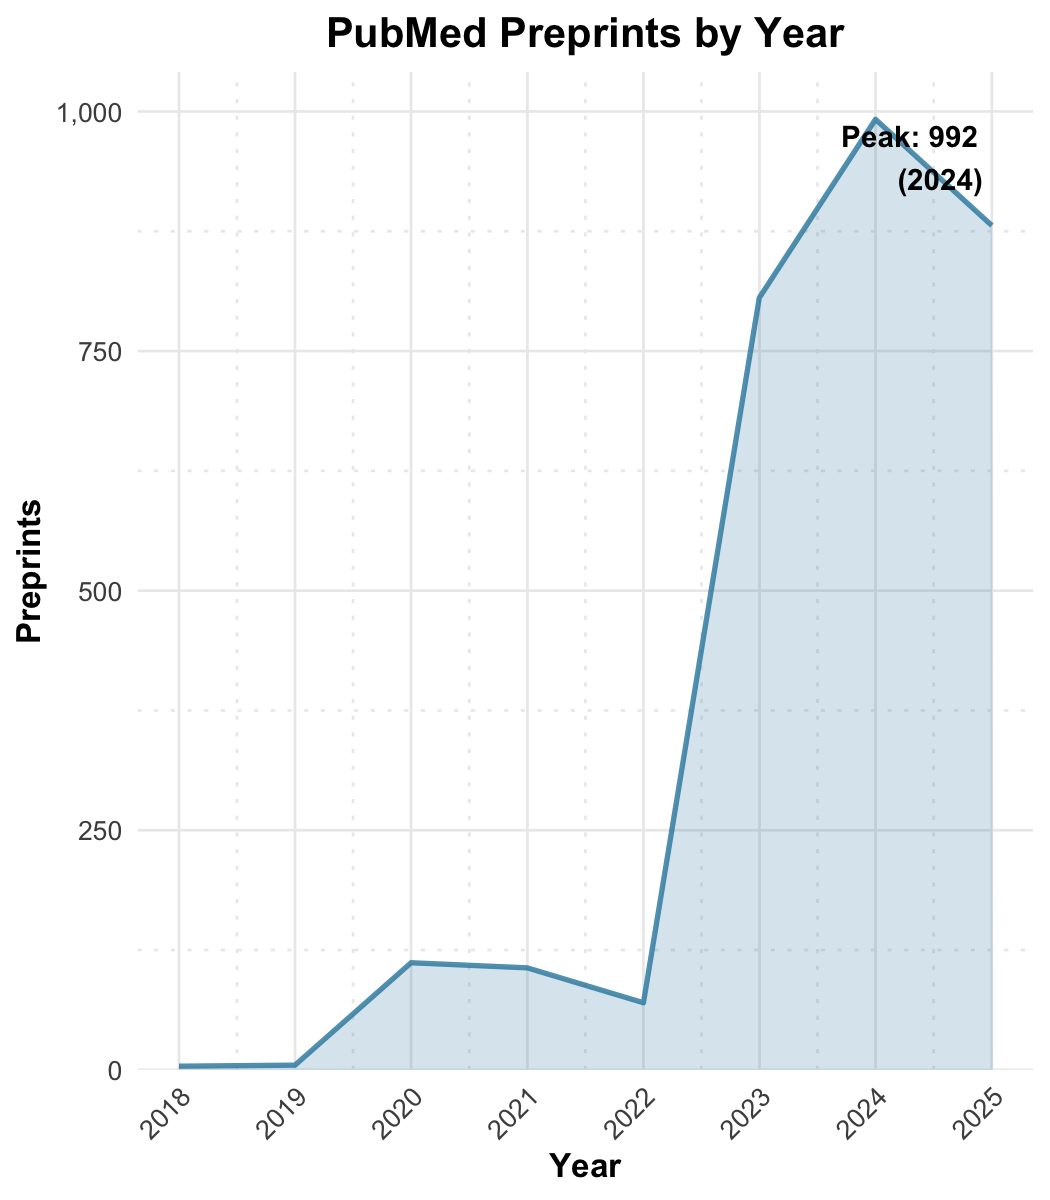
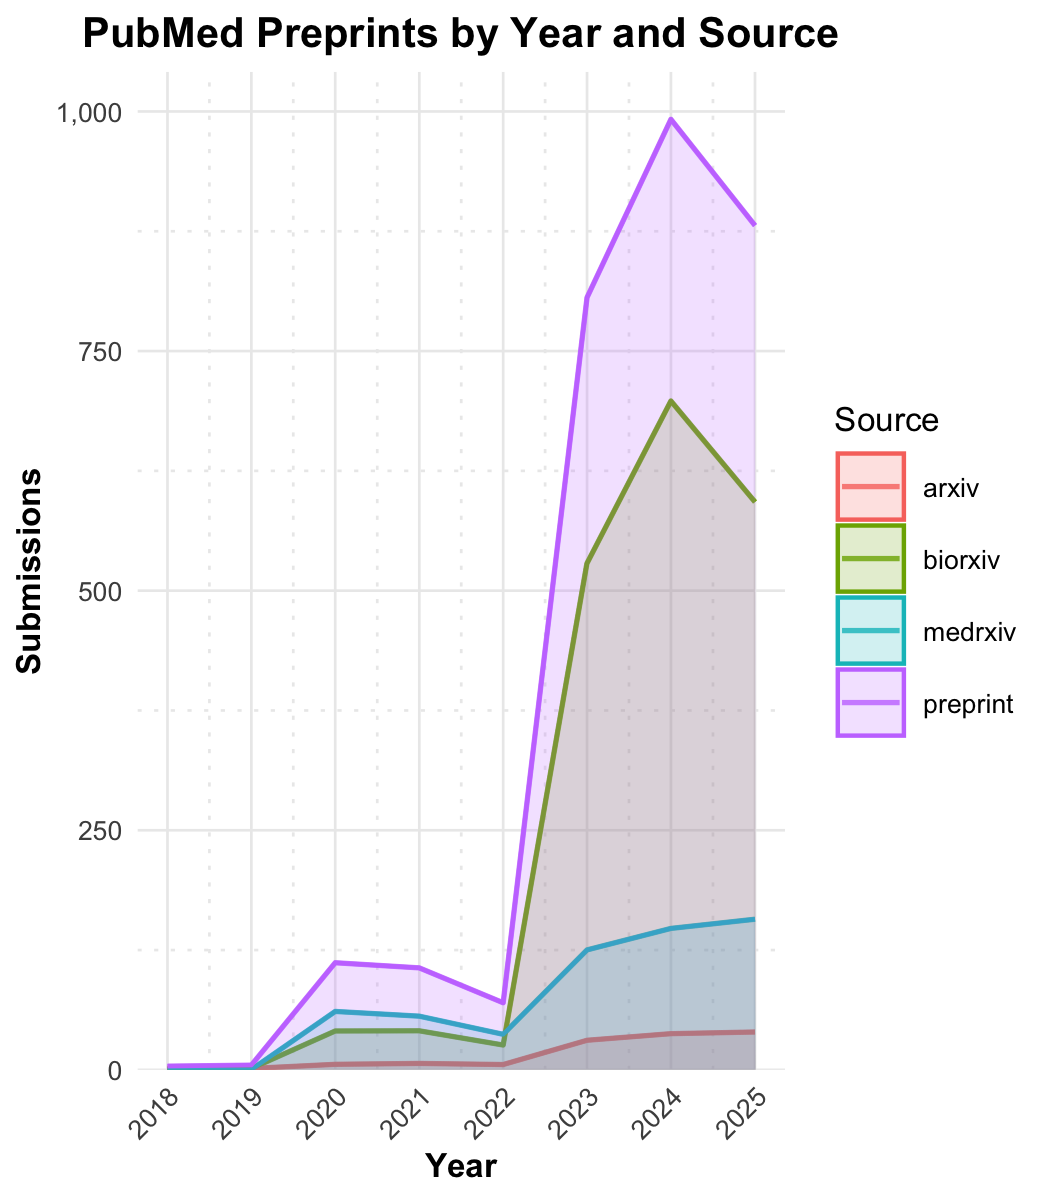
updating preprint to reflect that R scripts are now possible as well

diff --git a/EXAMPLE_MANUSCRIPT/01_MAIN.md b/EXAMPLE_MANUSCRIPT/01_MAIN.md
@@ -8,15 +8,15 @@ Scientific publishing increasingly relies on preprint servers for rapid dissemin
 
 <!-- Introduction -->
 
-![](FIGURES/Figure_1/Figure_1.svg)
-{#fig:diagram tex_position="t"} **The Rxiv-Maker Diagram.** The system integrates Markdown content, YAML metadata, Python scripts, and bibliography files through a processing engine. This engine leverages GitHub Actions, virtual environments, and LaTeX to produce a publication-ready scientific article, demonstrating a fully automated and reproducible pipeline.
+Today's research environment demands rapid sharing of findings through preprint servers such as arXiv, bioRxiv, and medRxiv [@Berg2016;@Abdill2019_biorxiv_growth;@Fraser2021_preprint_growth]. This growth, exemplified in @sfig:arxiv-growth and sfig:preprint-submissions, accelerates discovery whilst transferring quality control responsibilities from publishers to authors [@Vale2019_preprints;@Tennant2016_academic_publishing]. Traditional manuscript workflows rely on proprietary formats that resist integration with version control systems, creating barriers for collaborative research [@Lariviere2014;@da_Silva_2022_challenges]. In computational biology and imaging research, where data processing pipelines continuously evolve, maintaining synchronisation between analysis code and manuscript content becomes particularly challenging. Rxiv-Maker addresses these issues by providing a developer-centric framework that prioritises computational reproducibility over feature breadth. Rather than attempting universal format support, the system excels at producing publication-quality PDFs through automated LaTeX processing. This focus enables deep integration with Git workflows and continuous integration practices that have become standard in computational research. The framework embeds reproducibility safeguards typically handled by journal production teams, ensuring manuscripts remain buildable across different systems and time periods. Through GitHub Actions and controlled dependency management, Rxiv-Maker transforms manuscript preparation into a transparent, auditable process that aligns with modern research practices.
 
-Today's research environment demands rapid sharing of findings through preprint servers such as arXiv, bioRxiv, and medRxiv [@Berg2016;@Abdill2019_biorxiv_growth;@Fraser2021_preprint_growth]. This growth, exemplified in @sfig:arxiv-growth, accelerates discovery whilst transferring quality control responsibilities from publishers to authors [@Vale2019_preprints;@Tennant2016_academic_publishing]. Traditional manuscript workflows rely on proprietary formats that resist integration with version control systems, creating barriers for collaborative research [@Lariviere2014;@da_Silva_2022_challenges]. In computational biology and imaging research, where data processing pipelines continuously evolve, maintaining synchronisation between analysis code and manuscript content becomes particularly challenging. Rxiv-Maker addresses these issues by providing a developer-centric framework that prioritises computational reproducibility over feature breadth. Rather than attempting universal format support, the system excels at producing publication-quality PDFs through automated LaTeX processing. This focus enables deep integration with Git workflows and continuous integration practices that have become standard in computational research. The framework embeds reproducibility safeguards typically handled by journal production teams, ensuring manuscripts remain buildable across different systems and time periods. Through GitHub Actions and controlled dependency management, Rxiv-Maker transforms manuscript preparation into a transparent, auditable process that aligns with modern research practices.
+![](FIGURES/Figure_1/Figure_1.svg)
+{#fig:diagram tex_position="t"} **The Rxiv-Maker Diagram.** The system integrates Markdown content, YAML metadata, Python and R scripts, and bibliography files through a processing engine. This engine leverages GitHub Actions, virtual environments, and LaTeX to produce a publication-ready scientific article, demonstrating a fully automated and reproducible pipeline.
 
 ![](FIGURES/Figure_2/Figure_2.svg)
 {#fig:workflow width="\textwidth" tex_position="t"} **Rxiv-Maker Workflow: User Input vs. Automated Processing.** The framework clearly separates user responsibilities (content creation and configuration) from automated processes (parsing, conversion, compilation, and output generation). Users only need to write content and set preferences. At the same time, the system handles all technical aspects of manuscript preparation automatically, ensuring a streamlined workflow from markdown input to publication-ready PDF output.
 
-Rxiv-Maker prioritises reproducibility throughout the publication process [@Donoho2010;@Sandve2013_reproducible_research;@Wilson2014_software_carpentry]. Alongside allowing externally generated figures, the framework enables programmatic generation of figures and tables, following computational research best practices [@Scherer2020_reproducibility]. Instead of using static image files, which disconnect data from visualisation, the system utilises scripting languages like Python, combined with visualisation libraries such as Matplotlib [@Hunter2007_matplotlib] and Seaborn [@Waskom2021_seaborn]. Figures are generated directly from source data and analysis scripts during compilation, establishing a link between raw data and the final figure. When data is updated or analysis is refined, affected figures are automatically regenerated, ensuring consistency and preventing outdated visuals. The system also integrates Mermaid.js [@Mermaid2023_documentation] for generating diagrams and flowcharts from text-based syntax, which helps illustrate experimental workflows, conceptual models, and algorithms. The complete range of supported figure generation methods is detailed in @stable:figure-formats. This approach treats the manuscript as an executable output of the research process rather than a static document. Built upon the established HenriquesLab bioRxiv template [@HenriquesLab2015_template], Rxiv-Maker extends capabilities through automated processing pipelines and flexible deployment strategies. The architecture, detailed in @fig:diagram and comprehensively illustrated in @fig:workflow, provides robust build automation through GitHub Actions and virtual environments. The technical details of the figure generation system are described in @snote:figure-generation.
+Rxiv-Maker prioritises reproducibility throughout the publication process [@Donoho2010;@Sandve2013_reproducible_research;@Wilson2014_software_carpentry]. Alongside allowing externally generated figures, the framework enables programmatic generation of figures and tables, following computational research best practices [@Scherer2020_reproducibility]. Instead of using static image files, which disconnect data from visualisation, the system utilises scripting languages like Python and R, combined with visualisation libraries such as Matplotlib [@Hunter2007_matplotlib] and Seaborn [@Waskom2021_seaborn]. Figures are generated directly from source data and analysis scripts during compilation, establishing a link between raw data and the final figure. When data is updated or analysis is refined, affected figures are automatically regenerated, ensuring consistency and preventing outdated visuals. The system also integrates Mermaid.js [@Mermaid2023_documentation] for generating diagrams and flowcharts from text-based syntax, which helps illustrate experimental workflows, conceptual models, and algorithms. The complete range of supported figure generation methods is detailed in @stable:figure-formats. This approach treats the manuscript as an executable output of the research process rather than a static document. Built upon the established HenriquesLab bioRxiv template [@HenriquesLab2015_template], Rxiv-Maker extends capabilities through automated processing pipelines and flexible deployment strategies. The architecture, detailed in @fig:diagram and comprehensively illustrated in @fig:workflow, provides robust build automation through GitHub Actions and virtual environments. The technical details of the figure generation system are described in @snote:figure-generation.
 
 To understand Rxiv-Maker's unique features, it's essential to place it within the wider ecosystem of scientific authoring tools, which encompasses various paradigms and approaches to document creation. All-in-one publishing systems, like Quarto, are designed for maximum versatility, integrating features for multi-language and multi-format output from a single source. Real-time collaborative editors, such as Overleaf, democratise LaTeX authoring through web-based interfaces with low technical barriers. Computational narrative frameworks like MyST and Jupyter Book treat documents as executable entities, prioritising web-first, interactive outputs. Modern typesetting engines, such as Typst, represent a fundamental rethinking of the typesetting process, offering cleaner syntax and faster compilation. Rxiv-Maker occupies a specific niche within this ecosystem: developer-centric automation optimised for reproducible PDF preprint generation, with workflow reproducibility as its core strength. A detailed comparison of these approaches is provided in @stable:tool-comparison.
 
@@ -25,9 +25,9 @@ To understand Rxiv-Maker's unique features, it's essential to place it within th
 
 Using the Rxiv-Maker framework results in a highly efficient and robust workflow for producing professional-quality scientific papers. The system's primary output is a fully typeset PDF document, as seen in the article you're currently reading, which was generated entirely using this process. The markdown source files are automatically converted into a structured LaTeX document, then compiled to produce a PDF with a clean, academic layout, proper pagination, and high-resolution figures. Bibliographic management is handled seamlessly through integration with a standard BibTeX file. The system automatically processes this file to generate correctly formatted in-text citations and a comprehensive bibliography section according to a specified citation style. This automation eliminates the tedious and error-prone task of manually formatting references.
 
-The system's deployment strategy addresses a fundamental challenge in computational reproducibility: ensuring that research outputs can be reconstructed across different environments and time periods. Cloud-based GitHub Actions workflows provide standardised, auditable compilation processes that eliminate environment-dependent variability. Every tagged commit pushed to the repository triggers an automated workflow that provisions a fresh, controlled environment with specific versions of LaTeX, Python, and system dependencies. Alternatively, users can also manually trigger the automated workflow at any point. This approach eliminates the variability introduced by different local installations and provides a permanent, citable record of the exact computational environment used for each manuscript version. The resulting PDF artifacts are automatically archived and made available for download, creating an unbroken chain of computational provenance from source files to final output. For users requiring immediate feedback, the system also supports deployment in Google Colab notebooks, providing an interactive environment that maintains the same reproducibility guarantees while offering real-time compilation capabilities. A comprehensive comparison of available deployment strategies is provided in @stable:deployment-options.
+The system's deployment strategy addresses a fundamental challenge in computational reproducibility: ensuring that research outputs can be reconstructed across different environments and time periods. Cloud-based GitHub Actions workflows provide standardised, auditable compilation processes that eliminate environment-dependent variability. Every tagged commit pushed to the repository triggers an automated workflow that provisions a fresh, controlled environment with specific versions of LaTeX, Python, R, and system dependencies. Alternatively, users can also manually trigger the automated workflow at any point. This approach eliminates the variability introduced by different local installations and provides a permanent, citable record of the exact computational environment used for each manuscript version. The resulting PDF artifacts are automatically archived and made available for download, creating an unbroken chain of computational provenance from source files to final output. For users requiring immediate feedback, the system also supports deployment in Google Colab notebooks, providing an interactive environment that maintains the same reproducibility guarantees while offering real-time compilation capabilities. A comprehensive comparison of available deployment strategies is provided in @stable:deployment-options.
 
-The integration of programmatic figure generation was also validated, supporting interactive computational environments, such as Jupyter notebooks [@Jupyter2016_notebook]. Python scripts placed within the designated directory were automatically executed during compilation. These scripts loaded data, performed analyses, and generated visualisations, which were then saved as image files and seamlessly included in the final PDF. Similarly, Mermaid.js diagrams embedded within the markdown source were correctly rendered into SVG images and incorporated into the document. This programmatic integration demonstrates a closed loop of reproducibility, where the final manuscript serves as a verifiable and self-contained record of the research findings and their presentation.
+The integration of programmatic figure generation was also validated, supporting interactive computational environments, such as Jupyter notebooks [@Jupyter2016_notebook]. Python and R scripts placed within the designated directory were automatically executed during compilation. These scripts loaded data, performed analyses, and generated visualisations, which were then saved as image files and seamlessly included in the final PDF. Similarly, Mermaid.js diagrams embedded within the markdown source were correctly rendered into SVG images and incorporated into the document. This programmatic integration demonstrates a closed loop of reproducibility, where the final manuscript serves as a verifiable and self-contained record of the research findings and their presentation.
 
 <!-- Discussion and conclusions section -->
 
@@ -80,7 +80,7 @@ $$\frac{\partial}{\partial t} \mathbf{u} + (\mathbf{u} \cdot \nabla) \mathbf{u} 
 This approach provides an accessible alternative to mathematical notation for common chemical formulas and scientific expressions commonly found in research manuscripts, while ensuring that complex equations like the Navier-Stokes equation (@eq:navier_stokes) are rendered with professional quality. The comprehensive mathematical formula support is detailed in @snote:mathematical-formulas. 
 
 ### Programmatic Content and Environments
-A core feature is programmatic content generation, treating figures and diagrams as reproducible outputs. The build pipeline automatically executes scripts (e.g., Python, Mermaid) and uses caching to avoid redundant work. This ensures a verifiable link between data, code, and visualisations (@snote:figure-generation). To ensure reproducibility, Rxiv-Maker uses a multi-layered environment management strategy. Dependencies are pinned, and isolated local virtual environments are supported. For maximum consistency, GitHub Actions provides controlled, cloud-based build environments, guaranteeing reproducibility across systems and time.
+A core feature is programmatic content generation, treating figures and diagrams as reproducible outputs. The build pipeline automatically executes scripts (e.g., Python, R, Mermaid) and uses caching to avoid redundant work. This ensures a verifiable link between data, code, and visualisations (@snote:figure-generation). To ensure reproducibility, Rxiv-Maker uses a multi-layered environment management strategy. Dependencies are pinned, and isolated local virtual environments are supported. For maximum consistency, GitHub Actions provides controlled, cloud-based build environments, guaranteeing reproducibility across systems and time.
 
 ### Quality Assurance
 The framework's reliability is ensured by a multi-level validation protocol. Unit tests validate individual components, integration tests verify the end-to-end pipeline, and platform tests validate behavior in deployment environments, such as GitHub Actions. Additionally, a pre-commit pipeline enforces code formatting, linting, and type checking, ensuring high code quality.

diff --git a/EXAMPLE_MANUSCRIPT/02_SUPPLEMENTARY_INFO.md b/EXAMPLE_MANUSCRIPT/02_SUPPLEMENTARY_INFO.md
@@ -3,10 +3,10 @@
 | **Format** | **Input Extension** | **Processing Method** | **Output Formats** | **Quality** | **Use Case** |
 |---------|-----------------|------------------|----------------|---------|----------|
 | **Mermaid Diagrams** | `.mmd` | Mermaid CLI | SVG, PNG, PDF | Vector/Raster | Flowcharts, architectures |
-| **Python Figures** | `.py` | Script execution | PNG, PDF, SVG | Publication | Data visualisation |
+| **Python and R Figures** | `.py`, `.R` | Script execution | PNG, PDF, SVG | Publication | Data visualisation |
 | **Static Images** | `.png`, `.jpg`, `.svg` | Direct inclusion | Same format | Original | Photographs, logos |
 | **LaTeX Graphics** | `.tex`, `.tikz` | LaTeX compilation | PDF | Vector | Mathematical diagrams |
-| **Data Files** | `.csv`, `.json`, `.xlsx` | Python processing | Via scripts | Computed | Raw data integration |
+| **Data Files** | `.csv`, `.json`, `.xlsx` | Python and R processing | Via scripts | Computed | Raw data integration |
 
 {#stable:figure-formats} **Supported Figure Generation Methods.** Comprehensive overview of the framework's figure processing capabilities, demonstrating support for both static and dynamic content generation with emphasis on reproducible computational graphics.
 
@@ -77,11 +77,11 @@
 
 {#snote:figure-generation} **Programmatic Figure Generation and Computational Reproducibility**
 
-The technical architecture underlying Rxiv-Maker's figure generation capabilities demonstrates how automated processing pipelines can maintain transparent connections between source data and final visualisations whilst ensuring computational reproducibility. The system supports two primary methodologies for figure creation: Mermaid diagram processing and Python-based data visualisation, each addressing distinct requirements within the scientific publishing workflow.
+The technical architecture underlying Rxiv-Maker's figure generation capabilities demonstrates how automated processing pipelines can maintain transparent connections between source data and final visualisations whilst ensuring computational reproducibility. The system supports two primary methodologies for figure creation: Mermaid diagram processing and Python and R-based data visualisation, each addressing distinct requirements within the scientific publishing workflow.
 
 Mermaid diagram processing leverages the Mermaid CLI to convert text-based diagram specifications into publication-ready graphics. This approach enables version-controlled diagram creation where complex flowcharts, system architectures, and conceptual models can be specified using intuitive syntax and automatically rendered into multiple output formats. The system generates SVG, PNG, and PDF variants to accommodate different compilation requirements whilst maintaining vector quality where appropriate. This automation eliminates the manual effort traditionally required for diagram creation and updates, whilst ensuring that modifications to diagram specifications are immediately reflected in the final document.
 
-Python figure generation represents a more sophisticated approach to computational reproducibility, where analytical scripts are executed during document compilation to generate figures directly from source data. This integration ensures that visualisations remain synchronised with the underlying datasets and analytical methods, eliminating the possibility of outdated or inconsistent graphics persisting in the manuscript. The system executes Python scripts within the compilation environment, automatically detecting generated image files and incorporating them into the document structure. This approach transforms figures from static illustrations into dynamic, reproducible computational artefacts that enhance the scientific rigour of the publication.
+Script-based figure generation (Python and R) represents a more sophisticated approach to computational reproducibility, where analytical scripts are executed during document compilation to generate figures directly from source data. This integration ensures that visualisations remain synchronised with the underlying datasets and analytical methods, eliminating the possibility of outdated or inconsistent graphics persisting in the manuscript. The system executes the image generation scripts within the compilation environment, automatically detecting generated image files and incorporating them into the document structure. This approach transforms figures from static illustrations into dynamic, reproducible computational artefacts that enhance the scientific rigour of the publication.
 
 {#snote:mathematical-formulas} **Mathematical Formula Support and LaTeX Integration**
 
@@ -114,7 +114,9 @@ Statistical notation commonly required in scientific manuscripts is fully suppor
 ![](FIGURES/SFigure_2/SFigure_2.svg)
 {#sfig:arxiv-growth width="100%"} **The growth of preprint submissions on the arXiv server from 1991 to 2025.** The data, sourced from arXiv's public statistics, is plotted using a Python script integrated into our Rxiv-Maker pipeline. This demonstrates the system's capacity for reproducible, data-driven figure generation directly within the publication workflow.
 
+![](FIGURES/SFigure_3/SFigure_3.svg)
+{#sfig:preprint-submissions width="100%"} **Preprint Submission Trends Across Multiple Servers (2018–2025).** The figure displays the annual number of preprint submissions to major repositories, including arXiv, bioRxiv, and medRxiv. Data was collected from publically available sources [@PubMedByYear2025] and visualised using a reproducible R script within the Rxiv-Maker pipeline. This approach ensures that the figure remains synchronised with the latest available data and supports transparent, data-driven scientific reporting.
+
 ![](FIGURES/SFigure_1/SFigure_1.svg)
 {#sfig:architecture width="80%"} **Detailed System Architecture and Processing Layers.** Comprehensive technical diagram showing the complete Rxiv-Maker architecture, including input layer organisation, processing engine components (parsers, converters, generators), compilation infrastructure, output generation, and deployment methodology integration. This figure illustrates the modular design that enables independent development and testing of system components.
-
 
